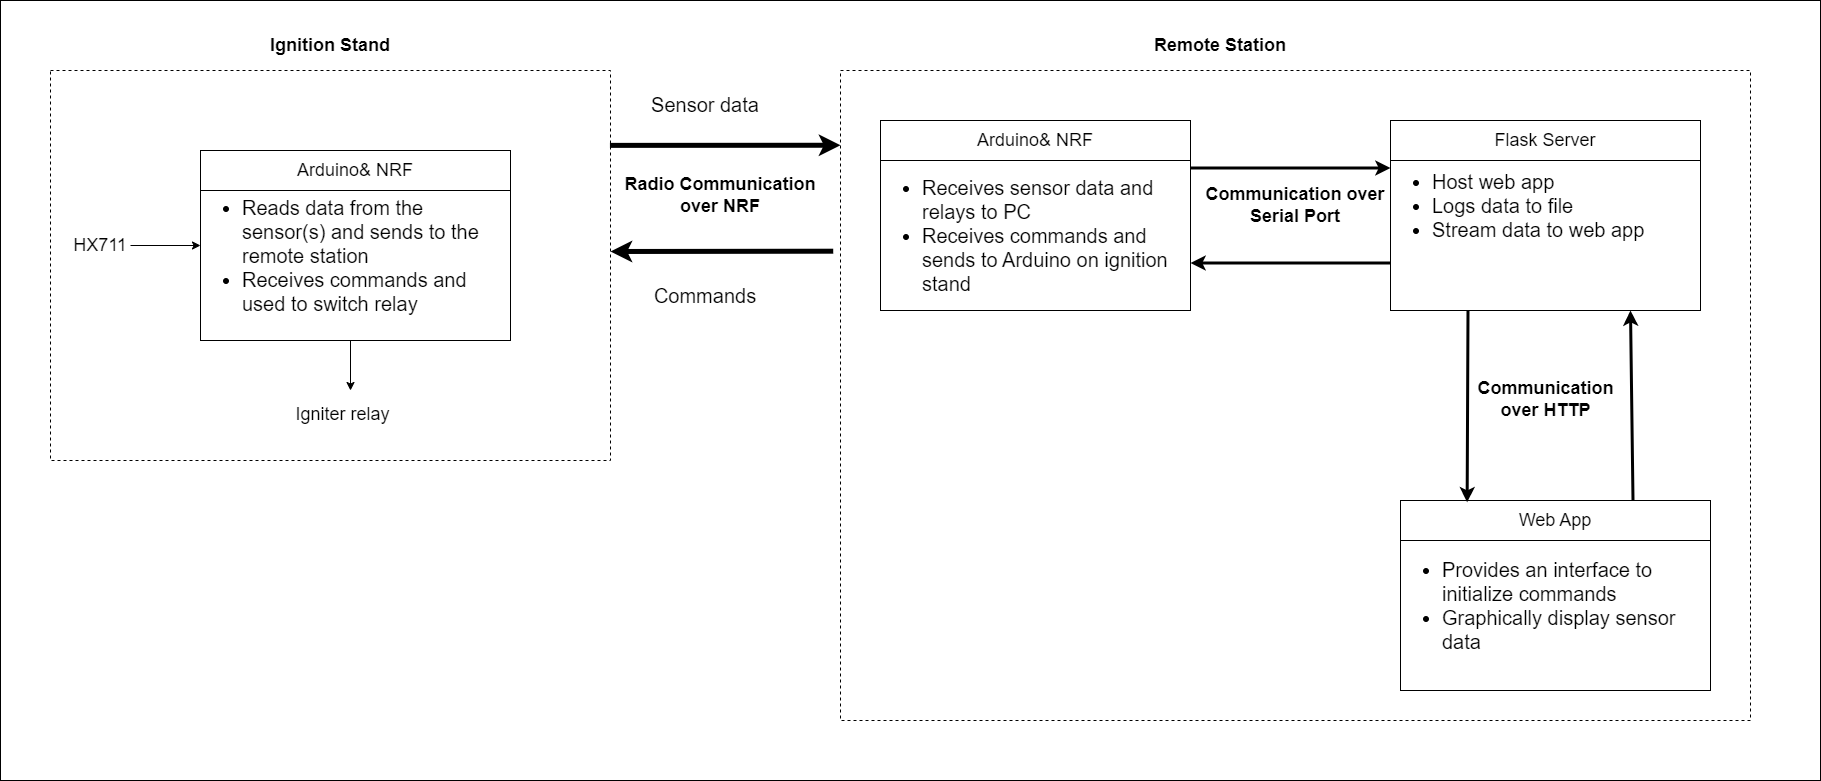
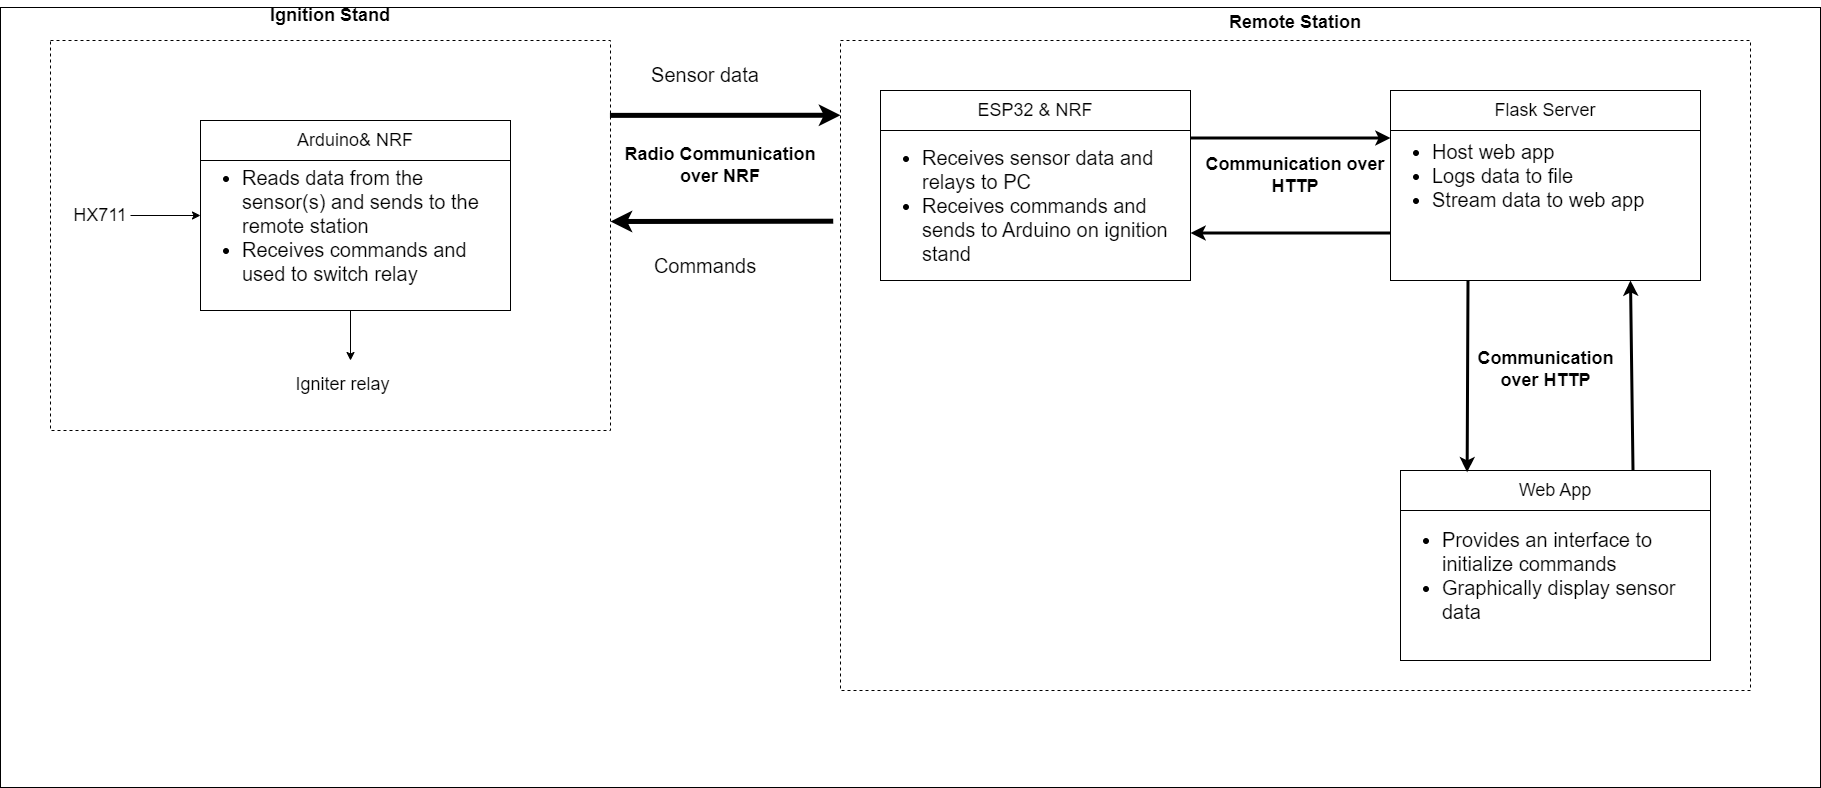
publish streaming-esp

diff --git a/server/app.py b/server/app.py
@@ -1,12 +1,12 @@
 from flask import Flask, request, send_from_directory
+import requests
 from flask_cors import CORS
 import os
 from log import secretary
-from rwCOM import COM
 
 app = Flask(__name__, static_folder='frontend/dist')
 CORS(app)
-omega = ''
+latest = ''
 
 # Serve React App
 @app.route('/', defaults={'path': ''})
@@ -24,9 +24,9 @@ def test():
 @app.route('/gateway') #Data from esp32, embedded in URL
 def gateway():
     data = request.args
-    omega = data.get('timestamp')
-    secretary(omega)
+    latest = data.get('data')
+    secretary(latest)
 
 @app.route('/fetch') #respond to web app request of data
 def fetch():
-    return {'data': omega}
+    return {'data': latest}
